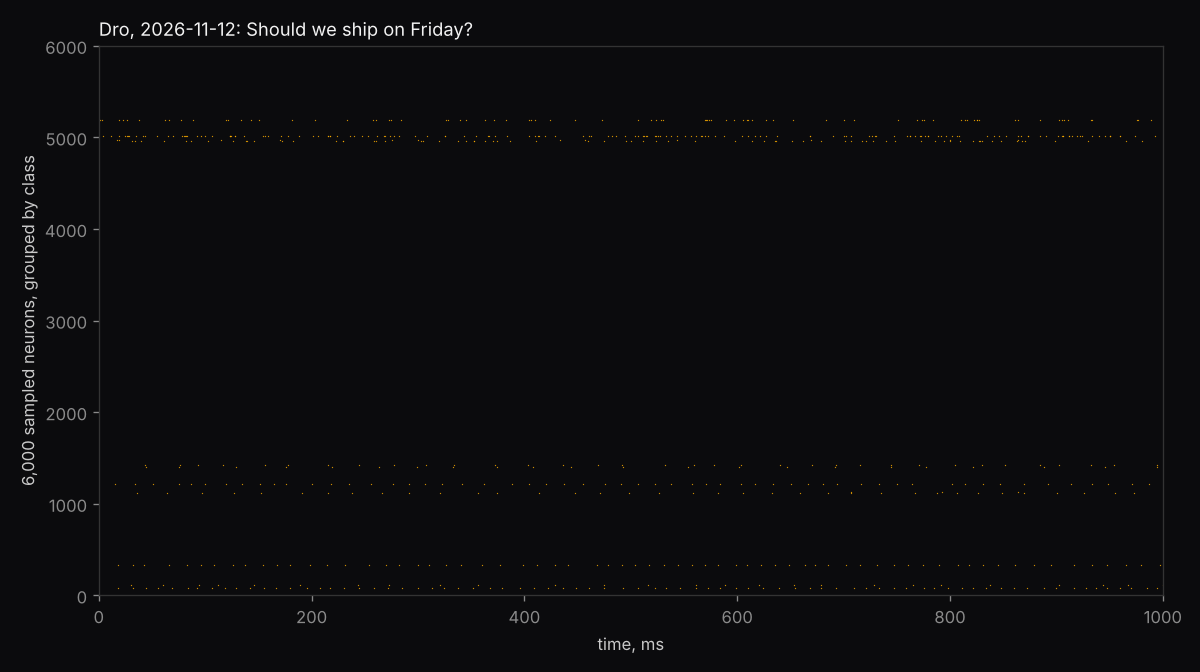
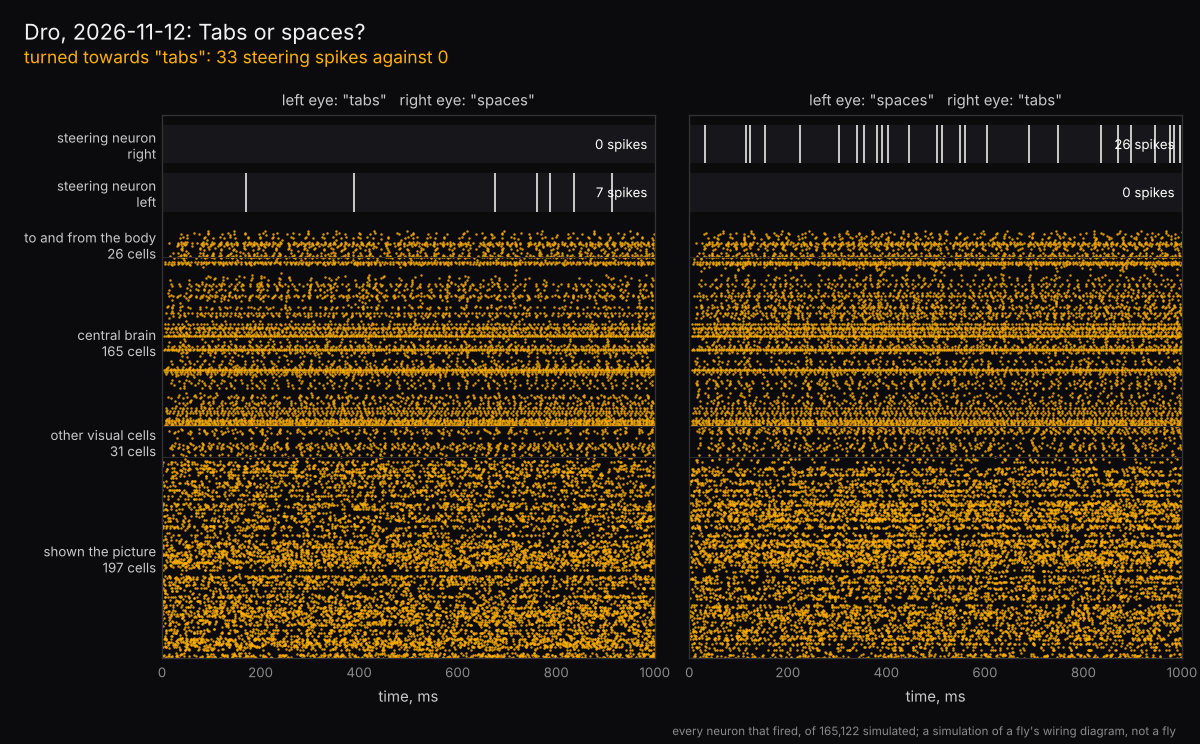
Draw the neurons that fired, not a random sample
The activity picture showed 6,000 neurons picked at random, of which only
a handful fire in the corrected model, so it came out almost black. It now
shows every neuron that fired, in both trials, in bands by role, with the
two steering neurons on top and the verdict in the heading.

Claude-Session: https://claude.ai/code/session_01G1xFALjkzKtP8PktJDQT78

diff --git a/dro/decide.py b/dro/decide.py
@@ -207,37 +207,111 @@ def decide(
     return record, results
 
 
-def save_raster(graph: Graph, result, path: Path, title: str, sample: int = 6000) -> None:
-    """Draw which neurons fired when, for a random sample of neurons."""
+# Bands of the activity picture, bottom to top, and the cells in each.
+PICTURE_BANDS = (
+    ("shown the picture", lambda kind, group: kind == INPUT_TYPE),
+    ("other visual cells", lambda kind, group: np.isin(group, ("ol_intrinsic", "visual_projection", "visual_centrifugal"))),
+    ("central brain", lambda kind, group: np.char.startswith(group, "cb_")),
+    ("to and from the body", lambda kind, group: np.ones(kind.shape, dtype=bool)),
+)
+AMBER, ACCENT, PAPER, INK = "#ffb000", "#ffffff", "#0b0b0d", "#c9c9c9"
+
+
+def save_raster(graph: Graph, results: list, record: dict, path: Path) -> None:
+    """Draw which neurons fired when, in both trials.
+
+    Only neurons that fired are drawn: a few hundred of the whole graph. The
+    two steering neurons get a band of their own at the top, because the
+    difference between them is what is read as the choice.
+    """
     import matplotlib
 
     matplotlib.use("Agg")
     import matplotlib.pyplot as plt
 
-    rng = np.random.default_rng(0)
-    order = graph.meta["superclass"].fillna("zz_unknown").to_numpy()
-    picked = np.sort(rng.choice(graph.n, size=min(sample, graph.n), replace=False))
-    picked = picked[np.argsort(order[picked], kind="stable")]
-    row_of = np.full(graph.n, -1, dtype=np.int32)
-    row_of[picked] = np.arange(picked.size)
-    rows = row_of[result.spike_neurons]
-    shown = rows >= 0
+    meta = graph.meta
+    kind = meta["type"].fillna("").to_numpy(dtype=str)
+    group = meta["superclass"].fillna("").to_numpy(dtype=str)
+    side = meta["somaSide"].fillna("").to_numpy(dtype=str)
+    fired = np.zeros(graph.n, dtype=bool)
+    for result in results:
+        fired[result.spike_neurons] = True
+    steering = np.isin(kind, STEERING_TYPES)
 
-    figure, axis = plt.subplots(figsize=(10, 5.6), dpi=120)
-    figure.patch.set_facecolor("#0b0b0d")
-    axis.set_facecolor("#0b0b0d")
-    axis.scatter(
-        result.spike_times_ms[shown], rows[shown], s=0.6, c="#ffb000", linewidths=0, alpha=0.8
+    # Give every neuron that fired a row; bands stack from the bottom.
+    row_of = np.full(graph.n, -1, dtype=np.int64)
+    unplaced = fired & ~steering
+    labels, edges, rows = [], [0], 0
+    for name, belongs in PICTURE_BANDS:
+        members = np.flatnonzero(unplaced & belongs(kind, group))
+        unplaced[members] = False
+        members = members[np.argsort(side[members], kind="stable")]  # left side below right
+        row_of[members] = rows + np.arange(members.size)
+        rows += members.size
+        labels.append((name, members.size, (edges[-1] + rows) / 2))
+        edges.append(rows)
+    rows = max(rows, 1)
+    band = max(rows * 0.09, 1.0)  # height of one steering band
+    steering_base = {"L": rows + band * 0.5, "R": rows + band * 1.75}
+    top = rows + band * 3.0
+
+    options = record["options"]
+    toward = record["steering_spikes_toward"]
+    figure, axes = plt.subplots(1, 2, figsize=(10, 6.2), dpi=120, sharey=True)
+    figure.patch.set_facecolor(PAPER)
+    for axis, result, trial in zip(axes, results, record["trials"]):
+        axis.set_facecolor(PAPER)
+        placed = row_of[result.spike_neurons]
+        shown = placed >= 0
+        axis.scatter(
+            result.spike_times_ms[shown], placed[shown] + 0.5, s=2.2, c=AMBER, linewidths=0, alpha=0.85
+        )
+        for edge in edges[1:-1]:
+            axis.axhline(edge, color="#2a2a2e", linewidth=0.6)
+        for which, base in steering_base.items():
+            cells_here = np.flatnonzero(steering & (side == which))
+            times = result.spike_times_ms[np.isin(result.spike_neurons, cells_here)]
+            axis.axhspan(base, base + band, color="#17171b", linewidth=0)
+            axis.vlines(times, base, base + band, color=ACCENT, linewidth=0.9)
+            axis.text(
+                result.duration_ms * 0.985, base + band / 2, f"{times.size} spikes",
+                color=ACCENT, fontsize=8, ha="right", va="center",
+            )
+        axis.set_xlim(0, result.duration_ms)
+        axis.set_ylim(0, top)
+        axis.set_xlabel("time, ms", color=INK, fontsize=9)
+        axis.set_title(
+            f'left eye: "{options[trial["left_eye"]]}"   right eye: "{options[trial["right_eye"]]}"',
+            color=INK, fontsize=9,
+        )
+        axis.tick_params(colors="#8a8a8a", labelsize=8, length=0)
+        for spine in axis.spines.values():
+            spine.set_color("#333333")
+
+    ticks = [(middle, f"{name}\n{count} cells") for name, count, middle in labels if count]
+    ticks += [(steering_base["L"] + band / 2, "steering neuron\nleft"),
+              (steering_base["R"] + band / 2, "steering neuron\nright")]
+    axes[0].set_yticks([position for position, _ in ticks])
+    axes[0].set_yticklabels([text for _, text in ticks], color=INK, fontsize=8)
+
+    if record["choice"] == "undecided":
+        verdict = f"undecided: {toward['a']} steering spikes each way"
+    else:
+        other = "b" if record["choice"] == "a" else "a"
+        verdict = (
+            f'turned towards "{record["choice_label"]}": '
+            f"{toward[record['choice']]} steering spikes against {toward[other]}"
+        )
+    figure.suptitle(
+        f"Dro, {record['date']}: {record['question']}", color="#f2f2f2", fontsize=13, x=0.02, ha="left", y=0.975
     )
-    axis.set_xlim(0, result.duration_ms)
-    axis.set_ylim(0, picked.size)
-    axis.set_xlabel("time, ms", color="#c9c9c9")
-    axis.set_ylabel(f"{picked.size:,} sampled neurons, grouped by class", color="#c9c9c9")
-    axis.set_title(title, color="#f2f2f2", loc="left", fontsize=11)
-    axis.tick_params(colors="#8a8a8a")
-    for spine in axis.spines.values():
-        spine.set_color("#333333")
-    figure.tight_layout()
+    figure.text(0.02, 0.915, verdict, color=AMBER, fontsize=10.5, ha="left")
+    figure.text(
+        0.98, 0.012,
+        f"every neuron that fired, of {graph.n:,} simulated; a simulation of a fly's wiring diagram, not a fly",
+        color="#8a8a8a", fontsize=7, ha="right",
+    )
+    figure.subplots_adjust(left=0.135, right=0.985, top=0.845, bottom=0.115, wspace=0.07)
     figure.savefig(path, facecolor=figure.get_facecolor())
     plt.close(figure)
 
@@ -289,7 +363,7 @@ def main(argv: list[str] | None = None) -> int:
         stem = f"{date}-{suffix}"
     if not args.no_raster:
         raster = args.runs / f"{stem}.png"
-        save_raster(graph, results[0], raster, f"Dro, {date}: {question}")
+        save_raster(graph, results, record, raster)
         record["raster"] = raster.name
     (args.runs / f"{stem}.json").write_text(
         json.dumps(record, indent=2, ensure_ascii=False) + "\n", encoding="utf-8"

diff --git a/tests/test_dro.py b/tests/test_dro.py
@@ -6,7 +6,7 @@ import numpy as np
 import pandas as pd
 from scipy import sparse
 
-from dro.decide import decide, input_by_option, main, make_seed, next_question
+from dro.decide import decide, input_by_option, main, make_seed, next_question, save_raster
 from dro.draft import NOTES_MARKER, acceptable, build, facts, footer, latest_log, post_text
 from dro.draft import main as draft_main
 from dro.graph import Graph
@@ -450,3 +450,14 @@ def test_publish_picks_the_newest_post_and_stays_quiet_without_credentials(tmp_p
     printed = capsys.readouterr().out
     assert "2026-11-12-4.md" in printed and "not switched on" in printed
     assert publish_main(["--runs", str(tmp_path / "empty")]) == 1
+
+
+def test_activity_picture_is_written_for_decided_and_undecided_runs(tmp_path):
+    graph = eye_graph()
+    record, results = decide(graph, "q", "yes", "no", seed=3, duration_ms=200.0)
+    record = {"date": "2026-01-01", **record}
+    save_raster(graph, results, record, tmp_path / "decided.png")
+    record.update(choice="undecided", choice_label=None, steering_spikes_toward={"a": 4, "b": 4})
+    save_raster(graph, results, record, tmp_path / "undecided.png")
+    for name in ("decided.png", "undecided.png"):
+        assert (tmp_path / name).stat().st_size > 10_000

diff --git a/README.md b/README.md
@@ -91,8 +91,8 @@ graph, later runs restore it from the Actions cache. Each run:
 2. Asks the fly and writes `runs/YYYY-MM-DD.json` (question, options,
    choice, what the rig's contrast number alone would have chosen, input
    rates and spike counts per trial, seed, model constants, graph
-   fingerprint) and `runs/YYYY-MM-DD.png` (which neurons fired when in
-   trial 1).
+   fingerprint) and `runs/YYYY-MM-DD.png` (every neuron that fired, in both
+   trials, with the two steering neurons on top).
 3. Writes the post to `runs/YYYY-MM-DD.md` and shows it on the page of the
    run.
 4. Commits these three files.

diff --git a/CLAUDE.md b/CLAUDE.md
@@ -16,7 +16,7 @@ the model, and `docs/ROADMAP.md` for what to do next.
 - The pipeline runs end to end on the real connectome: build about 25 s
   after download, one decision about 12 s on one CPU core, about 2 GB of
   memory.
-- Thirty-one tests pass (`python -m pytest -q`).
+- Thirty-two tests pass (`python -m pytest -q`).
 - The repository is public at `DemonazGH/Dro`. Both workflows have run on
   GitHub: "Tests" passes, "Dro decides" took 63 s by hand, including the
   first graph build, and about 50 s on the second run with the graph
